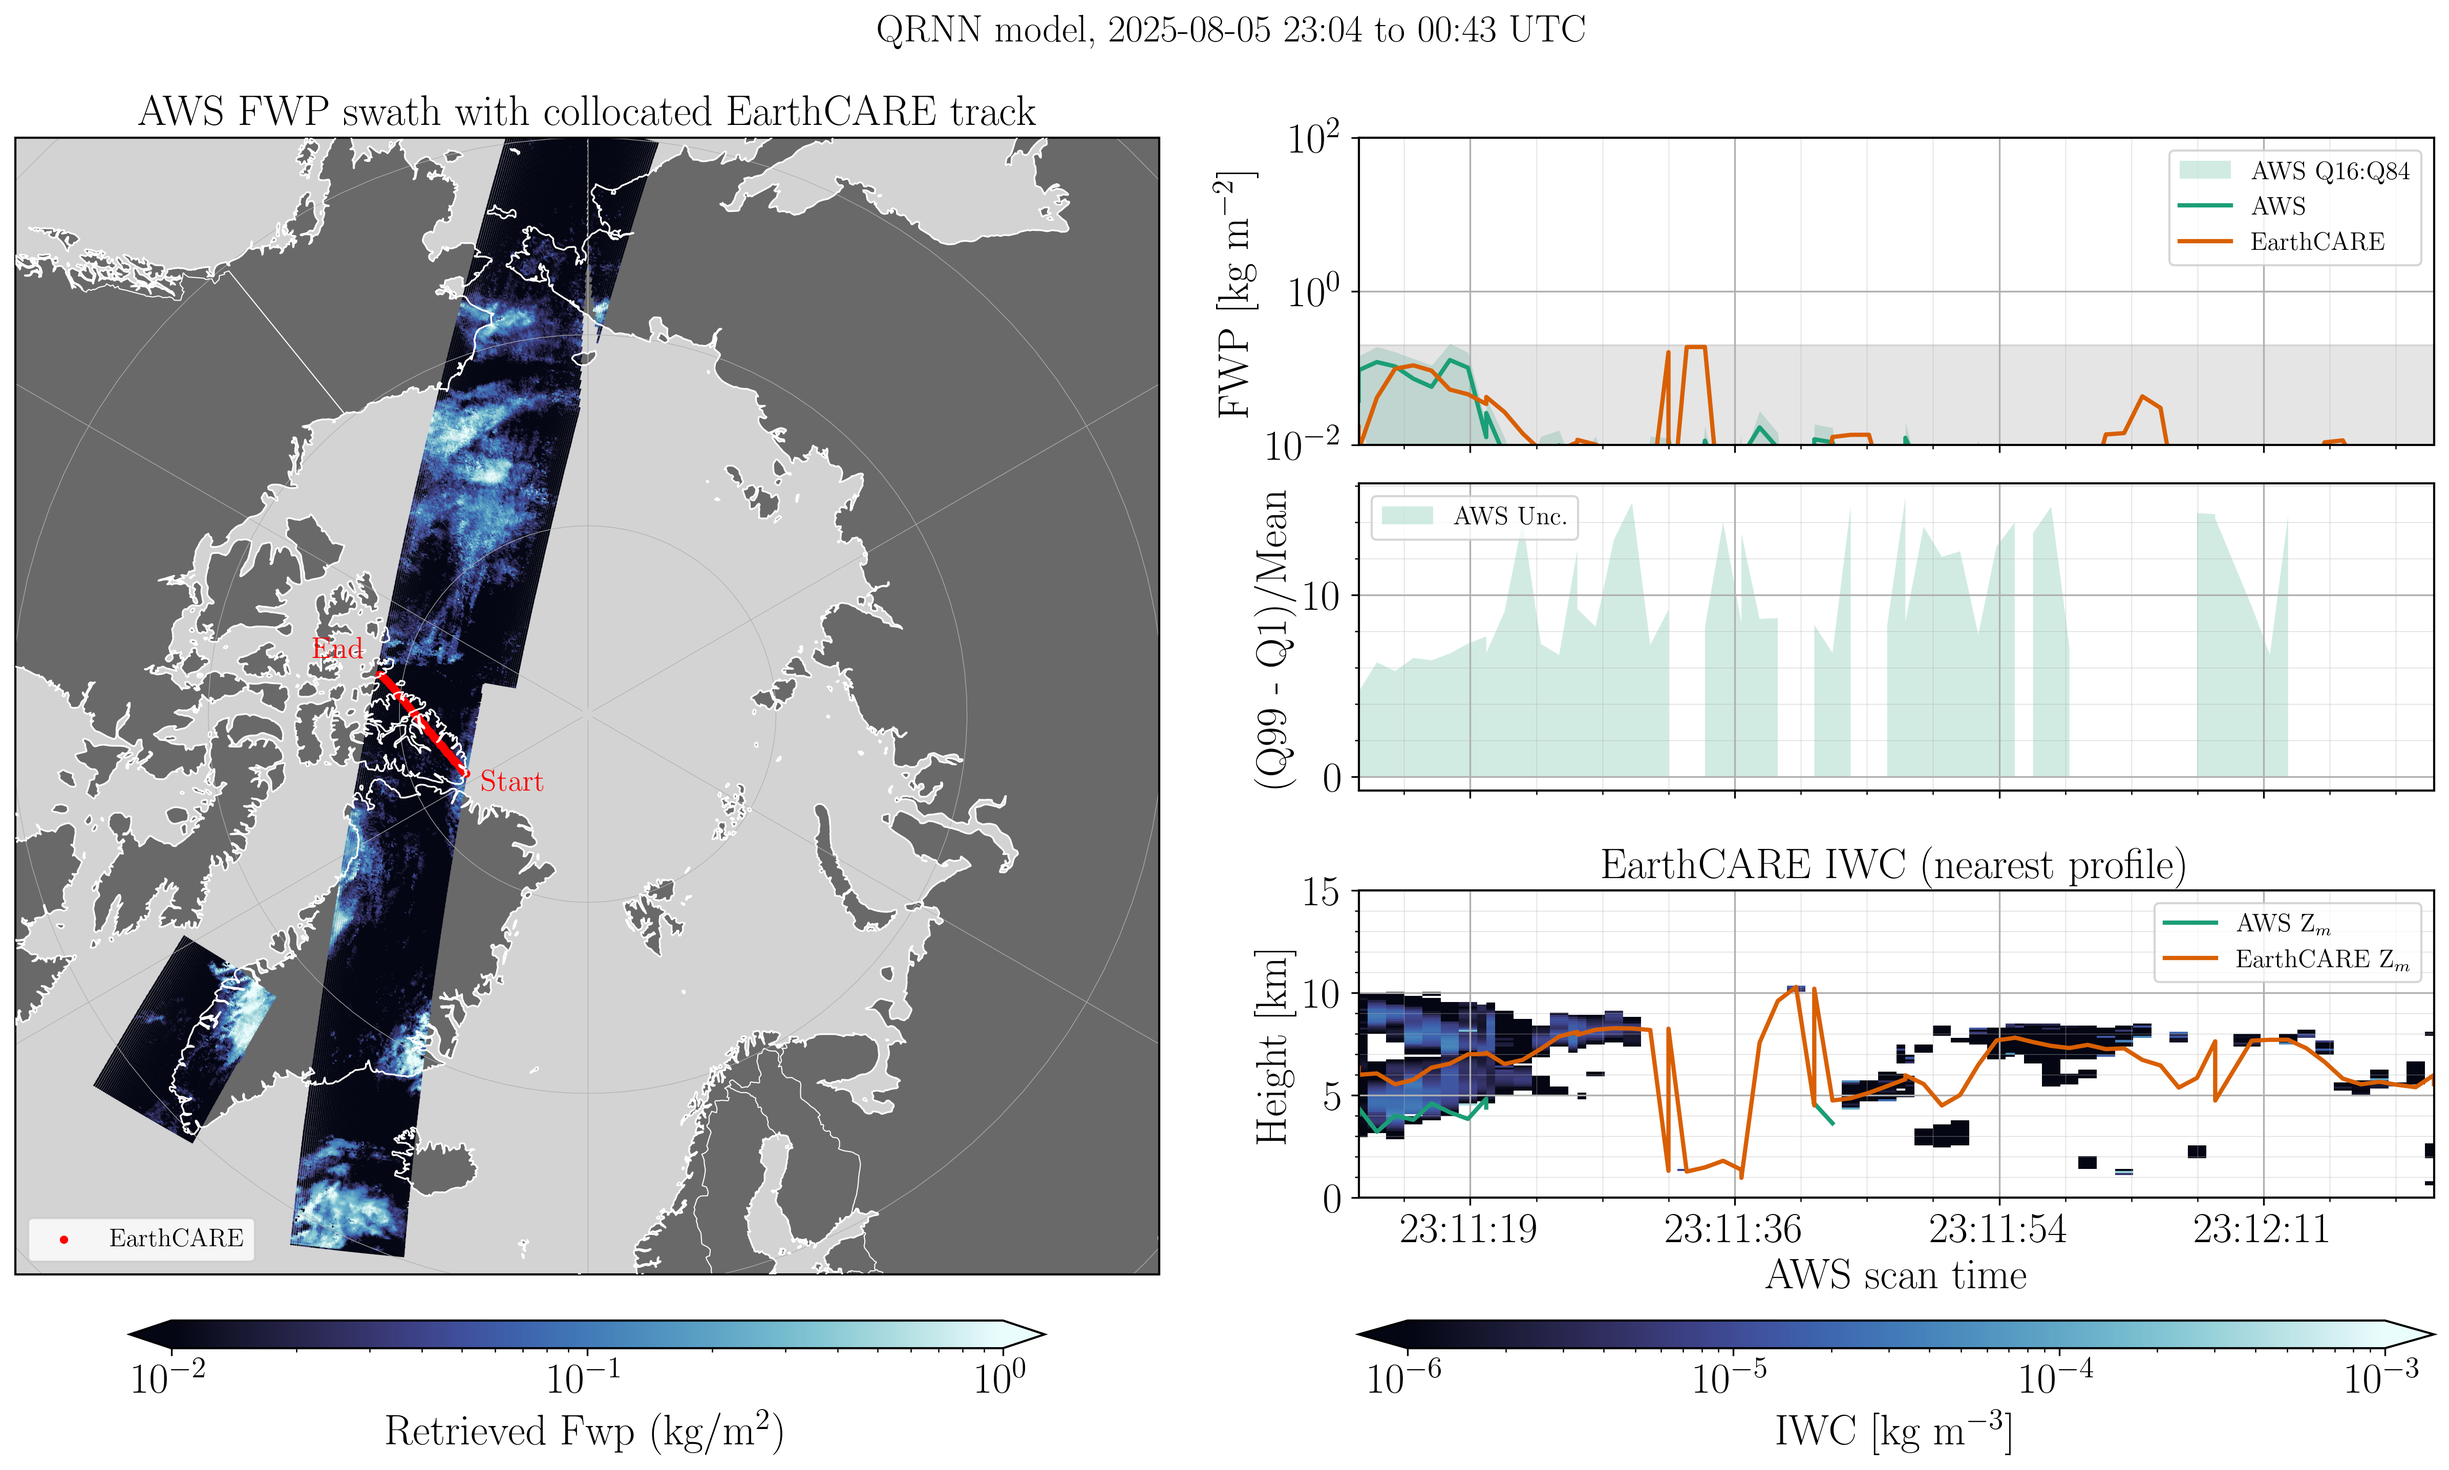
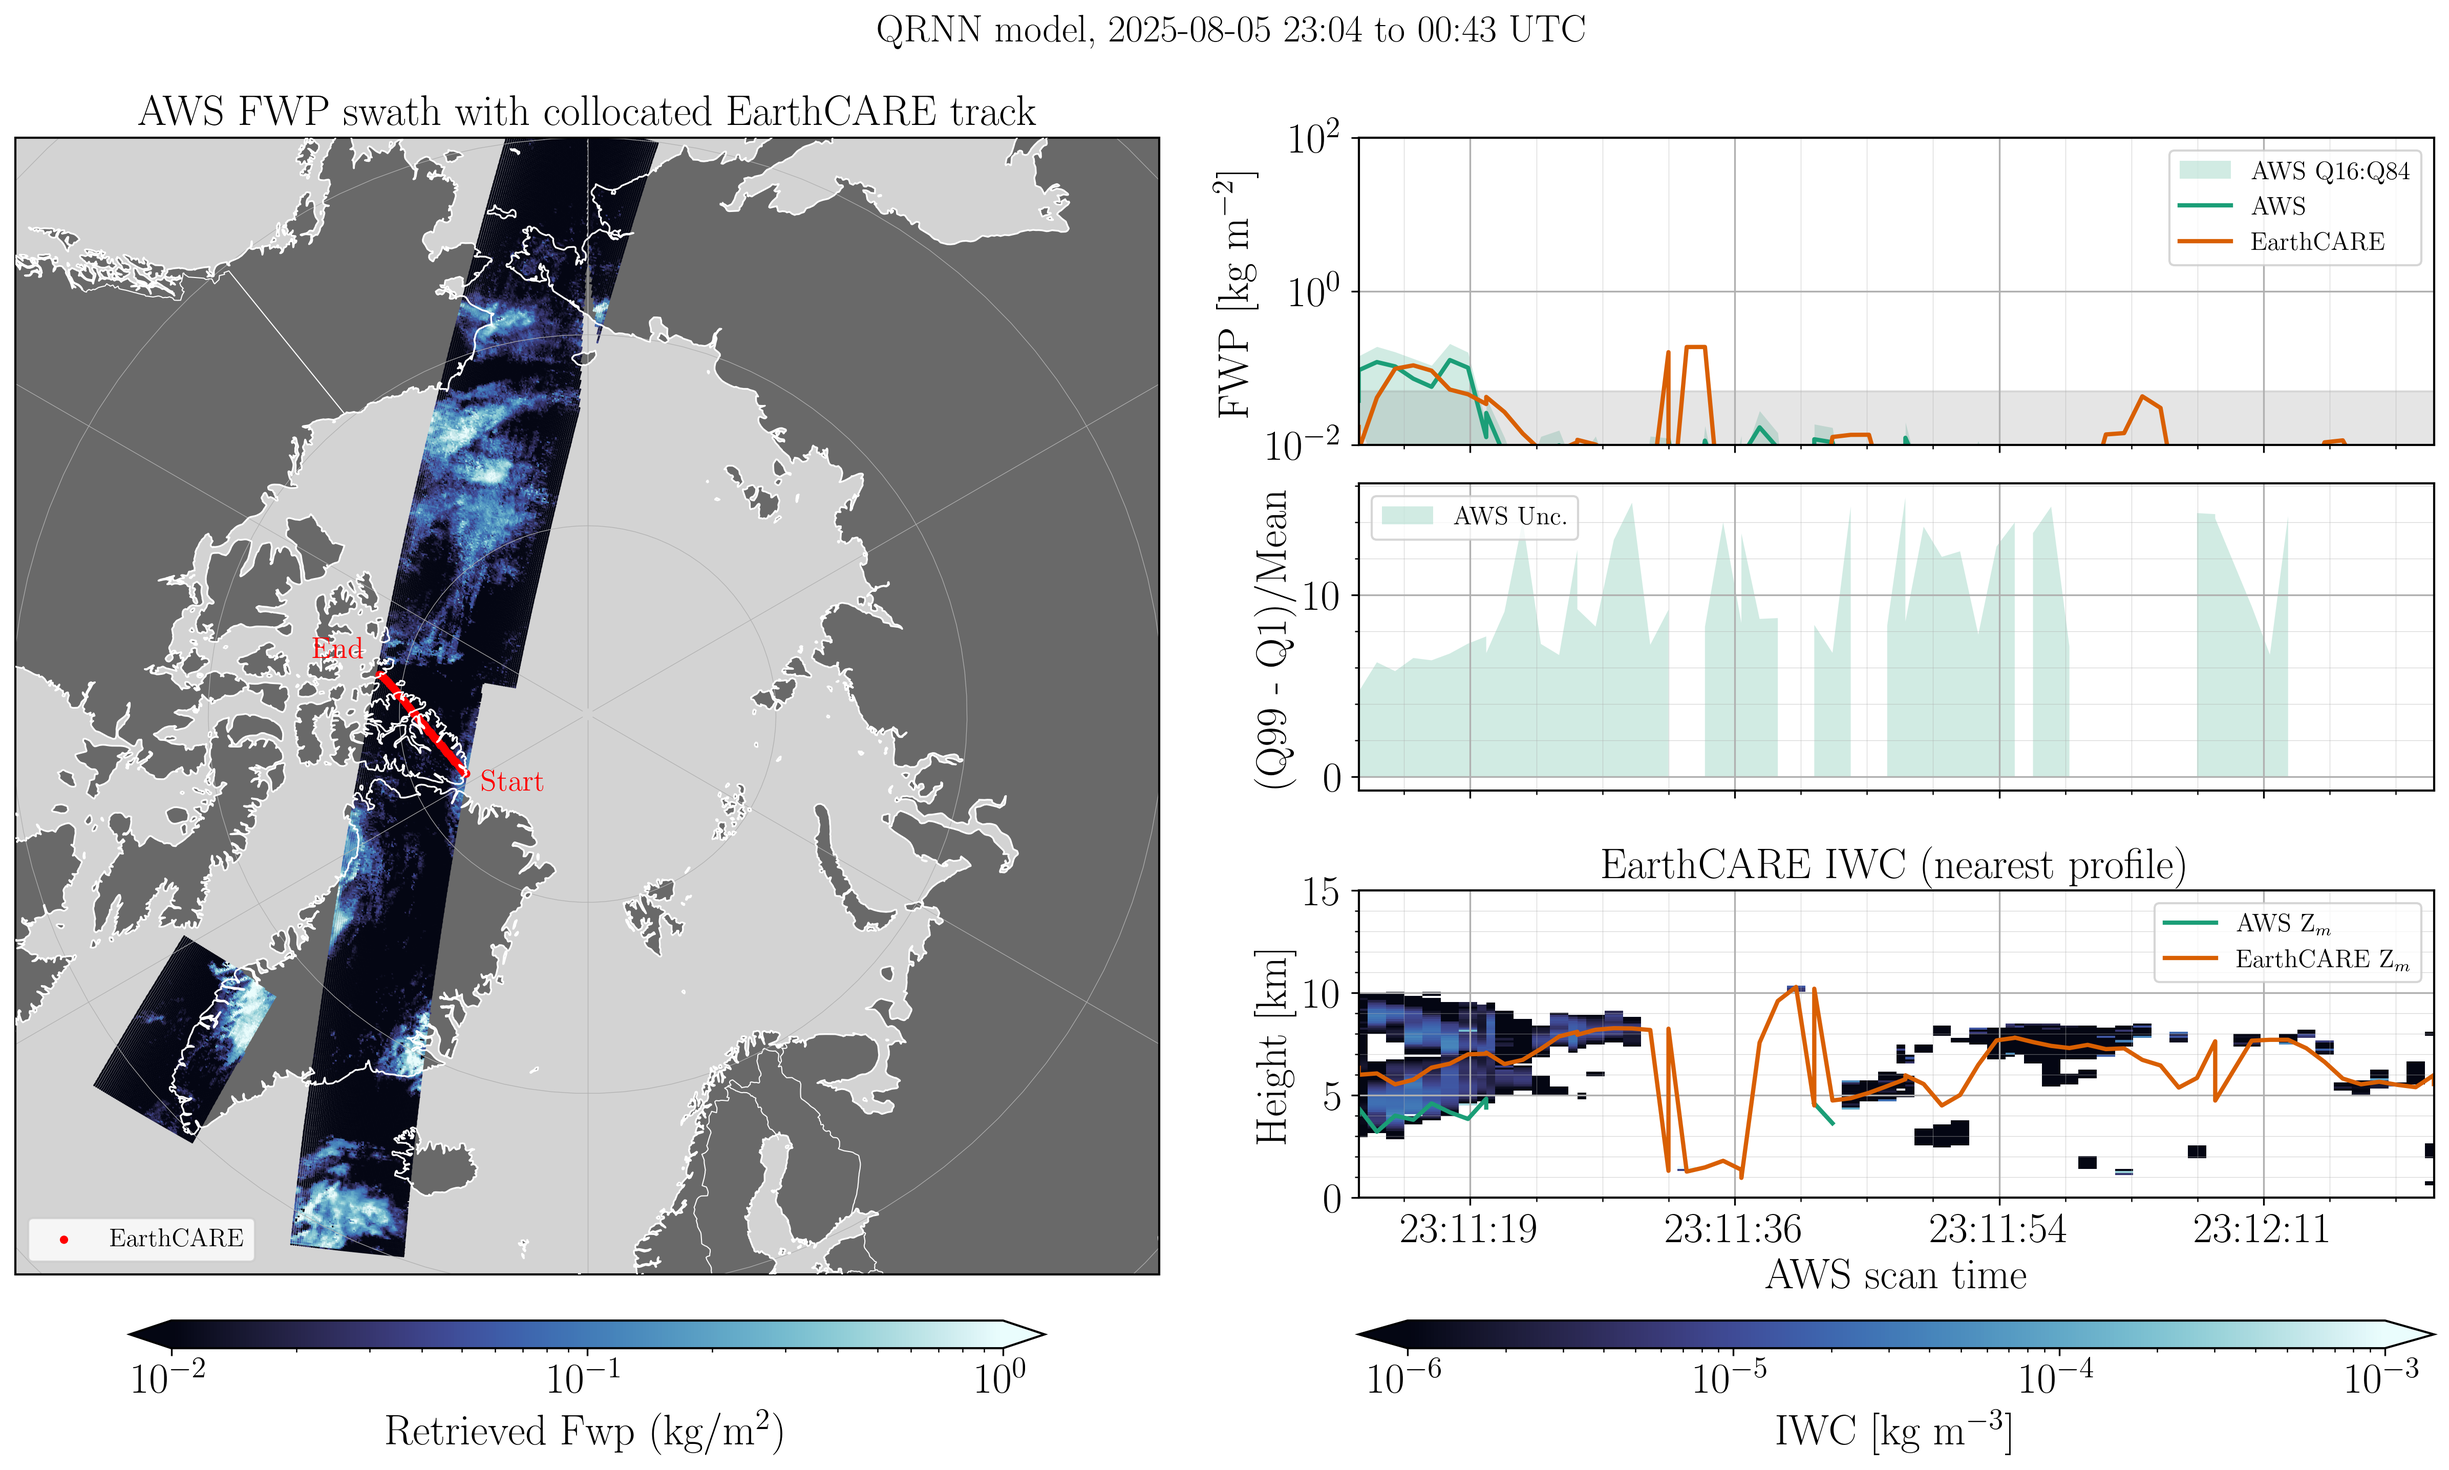
plot

Changed region(s): [[0.5607, 0.217, 0.9969, 0.279]]

diff --git a/scripts/plotting_scripts/batch_plot_collocations.py b/scripts/plotting_scripts/batch_plot_collocations.py
@@ -294,7 +294,7 @@ def plot_collocation(ds, col, title, out_path, args):
     ax.plot(x, ea, color="C1", label="EarthCARE", lw=2)
     ax.set_yscale("log")
     ax.set_ylim([1e-2, 1e2])
-    ax.axhspan(1e-2, 2e-1, color="grey", alpha=0.2)
+    ax.axhspan(1e-2, 5e-2, color="grey", alpha=0.2)
     ax.set_ylabel(rf"{v['name']} [kg m$^{{-2}}$]")
     #ax.set_title(f"Collocation: {coloc_date} UTC")
     ax.legend(fontsize=12)
